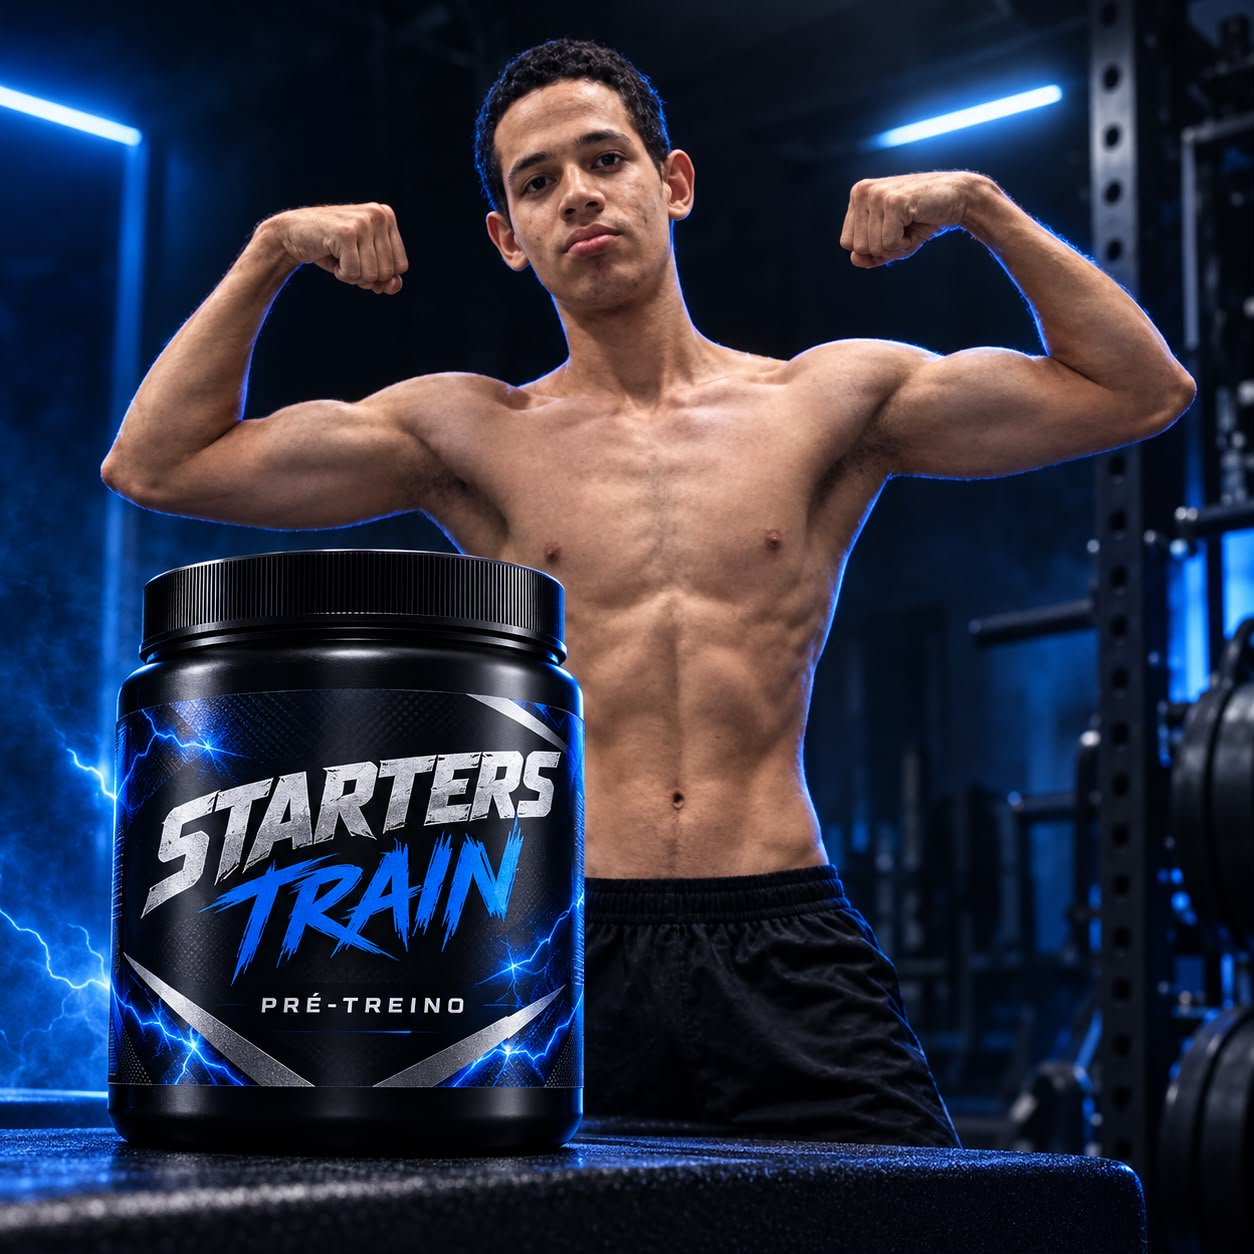
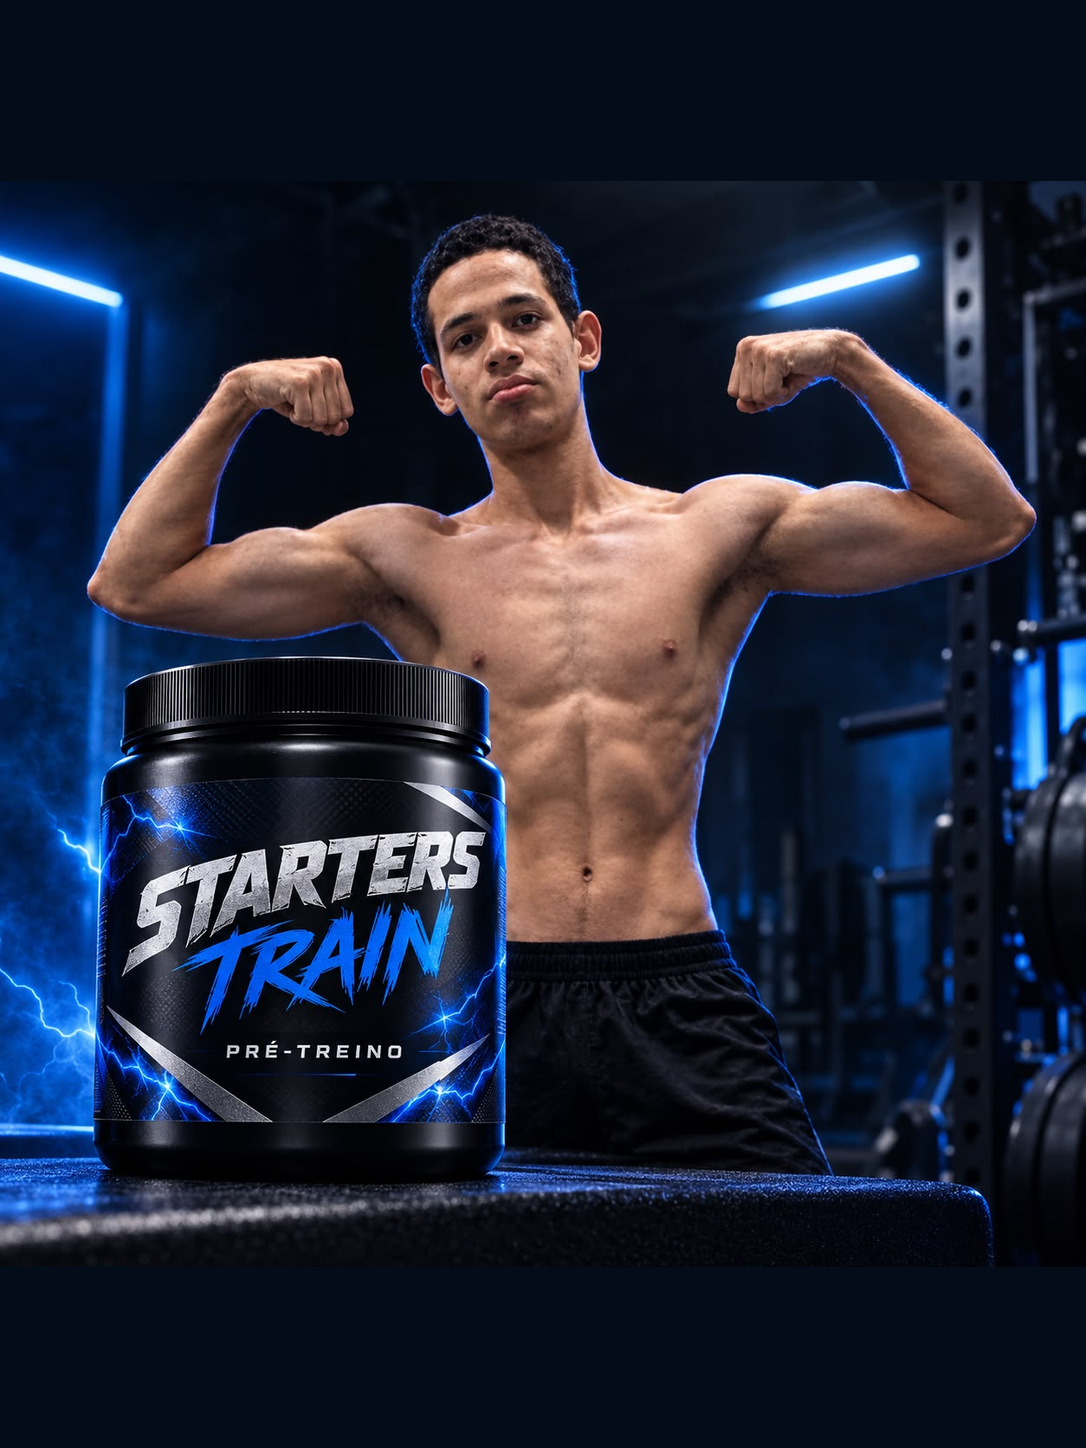
Feat: Adiciona imagens aos produtos no View.

diff --git a/static/css/compra.css b/static/css/compra.css
@@ -1,0 +1,38 @@
+.compras-topo{display:flex;justify-content:space-between;align-items:flex-start;gap:1rem;flex-wrap:wrap;margin-bottom:1.5rem}
+.compras-topo p{margin:0;color:var(--cinza-500)}
+
+.resumo-compras{display:grid;grid-template-columns:repeat(3,1fr);gap:.9rem;margin-bottom:1.5rem}
+.resumo-compras div{padding:1rem 1.2rem;background:var(--branco);border:1px solid var(--cinza-200);border-bottom:4px solid var(--amarelo-400);border-radius:10px;font-size:.9rem;color:var(--cinza-500)}
+.resumo-compras strong{display:block;font:800 1.5rem var(--fonte-titulo);color:var(--azul-900)}
+
+.lista-compras{display:grid;gap:1rem}
+
+.compra-item{background:var(--branco);border:1px solid var(--cinza-200);border-left:5px solid var(--verde-500);border-radius:4px 14px 14px 4px;overflow:hidden}
+.compra-item[open]{border-left-color:var(--azul-500)}
+.compra-item summary{display:flex;align-items:center;justify-content:space-between;gap:1rem;padding:1.1rem 1.3rem;cursor:pointer;list-style:none}
+.compra-item summary::-webkit-details-marker{display:none}
+.compra-item summary::after{content:'';flex:0 0 auto;width:.6rem;height:.6rem;margin-left:.2rem;border-right:3px solid var(--azul-500);border-bottom:3px solid var(--azul-500);transform:rotate(45deg);transition:transform .2s}
+.compra-item[open] summary::after{transform:rotate(-135deg)}
+.compra-item summary:hover{background:var(--cinza-100)}
+.compra-resumo{flex:1;min-width:0}
+.compra-resumo h2{margin:0 0 .15rem;font-size:1.15rem}
+.compra-meta{font-size:.88rem;color:var(--cinza-500)}
+
+.compra-conteudo{padding:0 1.3rem 1.2rem;border-top:1px solid var(--cinza-200)}
+.compra-linha{display:grid;grid-template-columns:56px 1fr auto auto;gap:1rem;align-items:center;padding:.9rem 0;border-bottom:1px solid var(--cinza-100)}
+.compra-icone{display:grid;place-items:center;width:56px;height:56px;font-size:1.6rem;border-radius:10px;background:linear-gradient(135deg,var(--azul-100),var(--verde-100))}
+.compra-linha h3{margin:0 0 .2rem}
+.compra-linha h3 a{color:var(--azul-900)}
+.compra-preco{font:800 1rem var(--fonte-titulo);color:var(--azul-900)}
+.compra-total{display:flex;justify-content:space-between;align-items:center;padding-top:1rem;font-weight:700}
+.compra-total strong{font:800 1.25rem var(--fonte-titulo);color:var(--verde-600)}
+
+.convite-compras{display:flex;flex-wrap:wrap;align-items:center;justify-content:space-between;gap:1rem;padding:1.8rem;background:var(--azul-900);border-radius:14px;color:#fff}
+.convite-compras h2{margin:0 0 .25rem;color:#fff}
+.convite-compras p{margin:0;color:#dbe4ff}
+
+@media(max-width:720px){
+  .resumo-compras{grid-template-columns:1fr}
+  .compra-linha{grid-template-columns:56px 1fr;row-gap:.5rem}
+  .compra-preco,.compra-linha form{grid-column:2}
+}

diff --git a/static/css/base.css b/static/css/base.css
@@ -47,8 +47,10 @@ a:hover{text-decoration:underline}
 .preco-grande{font-size:1.7rem;padding:.3rem 1rem;border-radius:6px 18px 6px 18px}
 .grid-produtos{display:grid;grid-template-columns:repeat(auto-fill,minmax(230px,1fr));gap:1.25rem}
 .produto-card{display:flex;flex-direction:column;height:100%;background:var(--branco);border:1px solid var(--cinza-200);border-radius:10px;overflow:hidden}
-.produto-img{display:grid;place-items:center;aspect-ratio:4/3;font-size:3.5rem;background:linear-gradient(135deg,var(--azul-100),var(--verde-100))}
+.produto-img{display:grid;place-items:center;aspect-ratio:3/4;font-size:3.5rem;background:linear-gradient(135deg,var(--azul-100),var(--verde-100))}
 .produto-img:hover{text-decoration:none}
+.produto-img{overflow:hidden;position:relative}
+.produto-img img{position:absolute;inset:0;width:100%;height:100%;object-fit:contain}
 .produto-corpo{display:flex;flex-direction:column;gap:.4rem;flex:1;padding:1rem}
 .produto-corpo h3{margin:0}
 .produto-corpo h3 a{color:var(--azul-900)}

diff --git a/static/css/produto.css b/static/css/produto.css
@@ -12,7 +12,9 @@
 .migalhas{margin-bottom:1.2rem;font-size:.9rem;color:var(--cinza-500)}
 .migalhas a{color:var(--cinza-500)}
 .detalhe{display:grid;grid-template-columns:1fr 1fr;gap:2.5rem;align-items:start}
-.detalhe-img{display:grid;place-items:center;aspect-ratio:1;font-size:7rem;border:1px solid var(--cinza-200);border-radius:14px;background:linear-gradient(135deg,var(--azul-100),var(--verde-100))}
+.detalhe-img{display:grid;place-items:center;aspect-ratio:3/4;font-size:7rem;border:1px solid var(--cinza-200);border-radius:14px;background:linear-gradient(135deg,var(--azul-100),var(--verde-100))}
+.detalhe-img{overflow:hidden;position:relative}
+.detalhe-img img{position:absolute;inset:0;width:100%;height:100%;object-fit:contain}
 .detalhe-info{display:flex;flex-direction:column;gap:.9rem}
 .detalhe-info h1{margin:0}
 .compra-form{display:flex;gap:.7rem;flex-wrap:wrap;margin-top:.4rem}

diff --git a/templates/macros.html b/templates/macros.html
@@ -16,7 +16,9 @@ R$ {{ ('%.2f'|format(valor))|replace('.', ',') }}
 {% macro card_produto(p) %}
 <article class="produto-card">
   <a class="produto-img" href="{{ url_for('produto.loja_detalhes', id=p.id) }}" aria-label="Ver {{ p.nome }}">
-    <span aria-hidden="true">{{ icone(p.categoria) }}</span>
+    {% set img = imagem_produto_url(p) %}
+    {% if img %}<img src="{{ img }}" alt="{{ p.nome }}" loading="lazy">
+    {% else %}<span aria-hidden="true">{{ icone(p.categoria) }}</span>{% endif %}
   </a>
   <div class="produto-corpo">
     <span class="tag">{{ p.categoria }}</span>

diff --git a/blueprints/produto/templates/loja_detalhes.html b/blueprints/produto/templates/loja_detalhes.html
@@ -18,7 +18,10 @@
     </nav>
 
     <div class="detalhe">
-      <div class="detalhe-img" aria-hidden="true">{{ icone(produto.categoria) }}</div>
+      {% set img = imagem_produto_url(produto) %}
+      <div class="detalhe-img"{% if not img %} aria-hidden="true"{% endif %}>
+        {% if img %}<img src="{{ img }}" alt="{{ produto.nome }}">{% else %}{{ icone(produto.categoria) }}{% endif %}
+      </div>
 
       <div class="detalhe-info">
         <span class="tag">{{ produto.categoria }}</span>

diff --git a/blueprints/produto/templates/loja.html b/blueprints/produto/templates/loja.html
@@ -8,7 +8,7 @@
 {% endblock %}
 
 {% block content %}
-{% set lista_categorias = categorias if categorias is defined and categorias else ['Bomba', 'Magia Muscular', 'Pré-Treino', 'Bateu Morreu'] %}
+{% set lista_categorias = categorias if categorias is defined and categorias else ['Pré-Treino', 'Bomba', 'Magia Muscular', 'Bateu Morreu'] %}
 {% set categoria_ativa = request.args.get('categoria', '') %}
 
 <section class="loja-topo">

diff --git a/seed.py b/seed.py
@@ -29,10 +29,10 @@ def popular_banco():
             informacao="Fórmula concentrada em cafeína e proteínas para madrugar no treino."
         ),
         Produto(
-            nome="O Pós-Treino",
+            nome="Treino dos moggers",
             preco=555.00,
             categoria="Pré-Treino",
-            informacao="Efeito pump prolongado por 12 horas e máxima vascularização. Substitui todos os tipos de refeições possíveis devido a sua contentração em carboidratos, vitaminas, proteinas e lipídeos."
+            informacao="Apenas os alfas usam esse produto para recuperar a jawline e as definições dos sigmas, betinhas precisam se afastar dos riscos potenciais desse pré-treino"
         ),
 
         
@@ -69,7 +69,7 @@ def popular_banco():
 
         
         Produto(
-            nome="Pó do yuri",
+            nome="Po do yuri",
             preco=1000.67,
             categoria="Magia Muscular",
             informacao="Pó proteico usado pelo Grande e ilustre Pedro Yuri em seus tempos aureos, iguala seu shape ao dele."
@@ -93,7 +93,7 @@ def popular_banco():
             informacao="Contém enzimas que contraem seu abdomen involuntariamente, deixando-o trincado que nem ferro. "
         ),
         Produto(
-            nome="Jeizons MegaBrain",
+            nome="Cleysys MegaBrain",
             preco=539.90,
             categoria="Magia Muscular",
             informacao="Estimulador neural para dobramento extremo do cérebro, perfeito para quem quer ficar grande não só no braço como na mente." 

diff --git a/services/imagens_produtos.py b/services/imagens_produtos.py
@@ -1,0 +1,31 @@
+from pathlib import Path
+
+PASTA = Path(__file__).resolve().parent.parent / "static" / "img" / "produtos"
+
+
+IMAGEM_POR_PRODUTO = {
+    "Starters train": "starter.jpeg",
+    "25-25 power": "2525power.jpeg",
+    "Treino dos psicóticos": "treino_dos_psicoticos.jpeg",
+    "A noite treina": "anoitetreina.jpeg",
+    "Treino dos moggers": "moggers.jpg",
+    "Alegria do jojo": "alegria_do_jojo.jpeg",
+    "Segredinho dos 40 da Caixa": "segredinho_da_caixa.png",
+    "Romeritos coffee": "romeritos_coffee.png",
+    "Helaidios mix": "helaidios_mix.png",
+    "Hirobraço e Nagapeito": "hirobraco_nagapeito.png",
+    "Po do yuri": "po_do_iuri.jpg",
+    "A perna do cangaço": "aperna_do_cangaco.jpg",
+    "Medeiros Growth": "medeiros_growth.png",
+    "Nobertos Abs": "noberto_abs.png",
+    "Cleysys MegaBrain": "cleysys_megabrain.png",
+    "GH Anderson": "ghanderson.jpg",
+    
+}
+
+
+def imagem_do_produto(produto):
+    arquivo = IMAGEM_POR_PRODUTO.get(produto.nome)
+    if arquivo and (PASTA / arquivo).is_file():
+        return arquivo 
+    else: None

diff --git a/app.py b/app.py
@@ -1,5 +1,6 @@
-from flask import Flask, render_template, session
+from flask import Flask, render_template, session, url_for
 from services import produto_service
+from services.imagens_produtos import imagem_do_produto
 from blueprints.auth import auth_bp
 from blueprints.carrinho import carrinho_bp
 from blueprints.compra import compra_bp
@@ -13,6 +14,15 @@ app.register_blueprint(carrinho_bp)
 app.register_blueprint(compra_bp)
 app.register_blueprint(produto_bp)
 app.register_blueprint(user_bp)
+
+
+@app.template_global()
+def imagem_produto_url(produto):
+    
+    arquivo = imagem_do_produto(produto)
+    if arquivo:
+        return url_for('static', filename=f'img/produtos/{arquivo}')
+    else: None
 
 
 if __name__ == "__main__":
